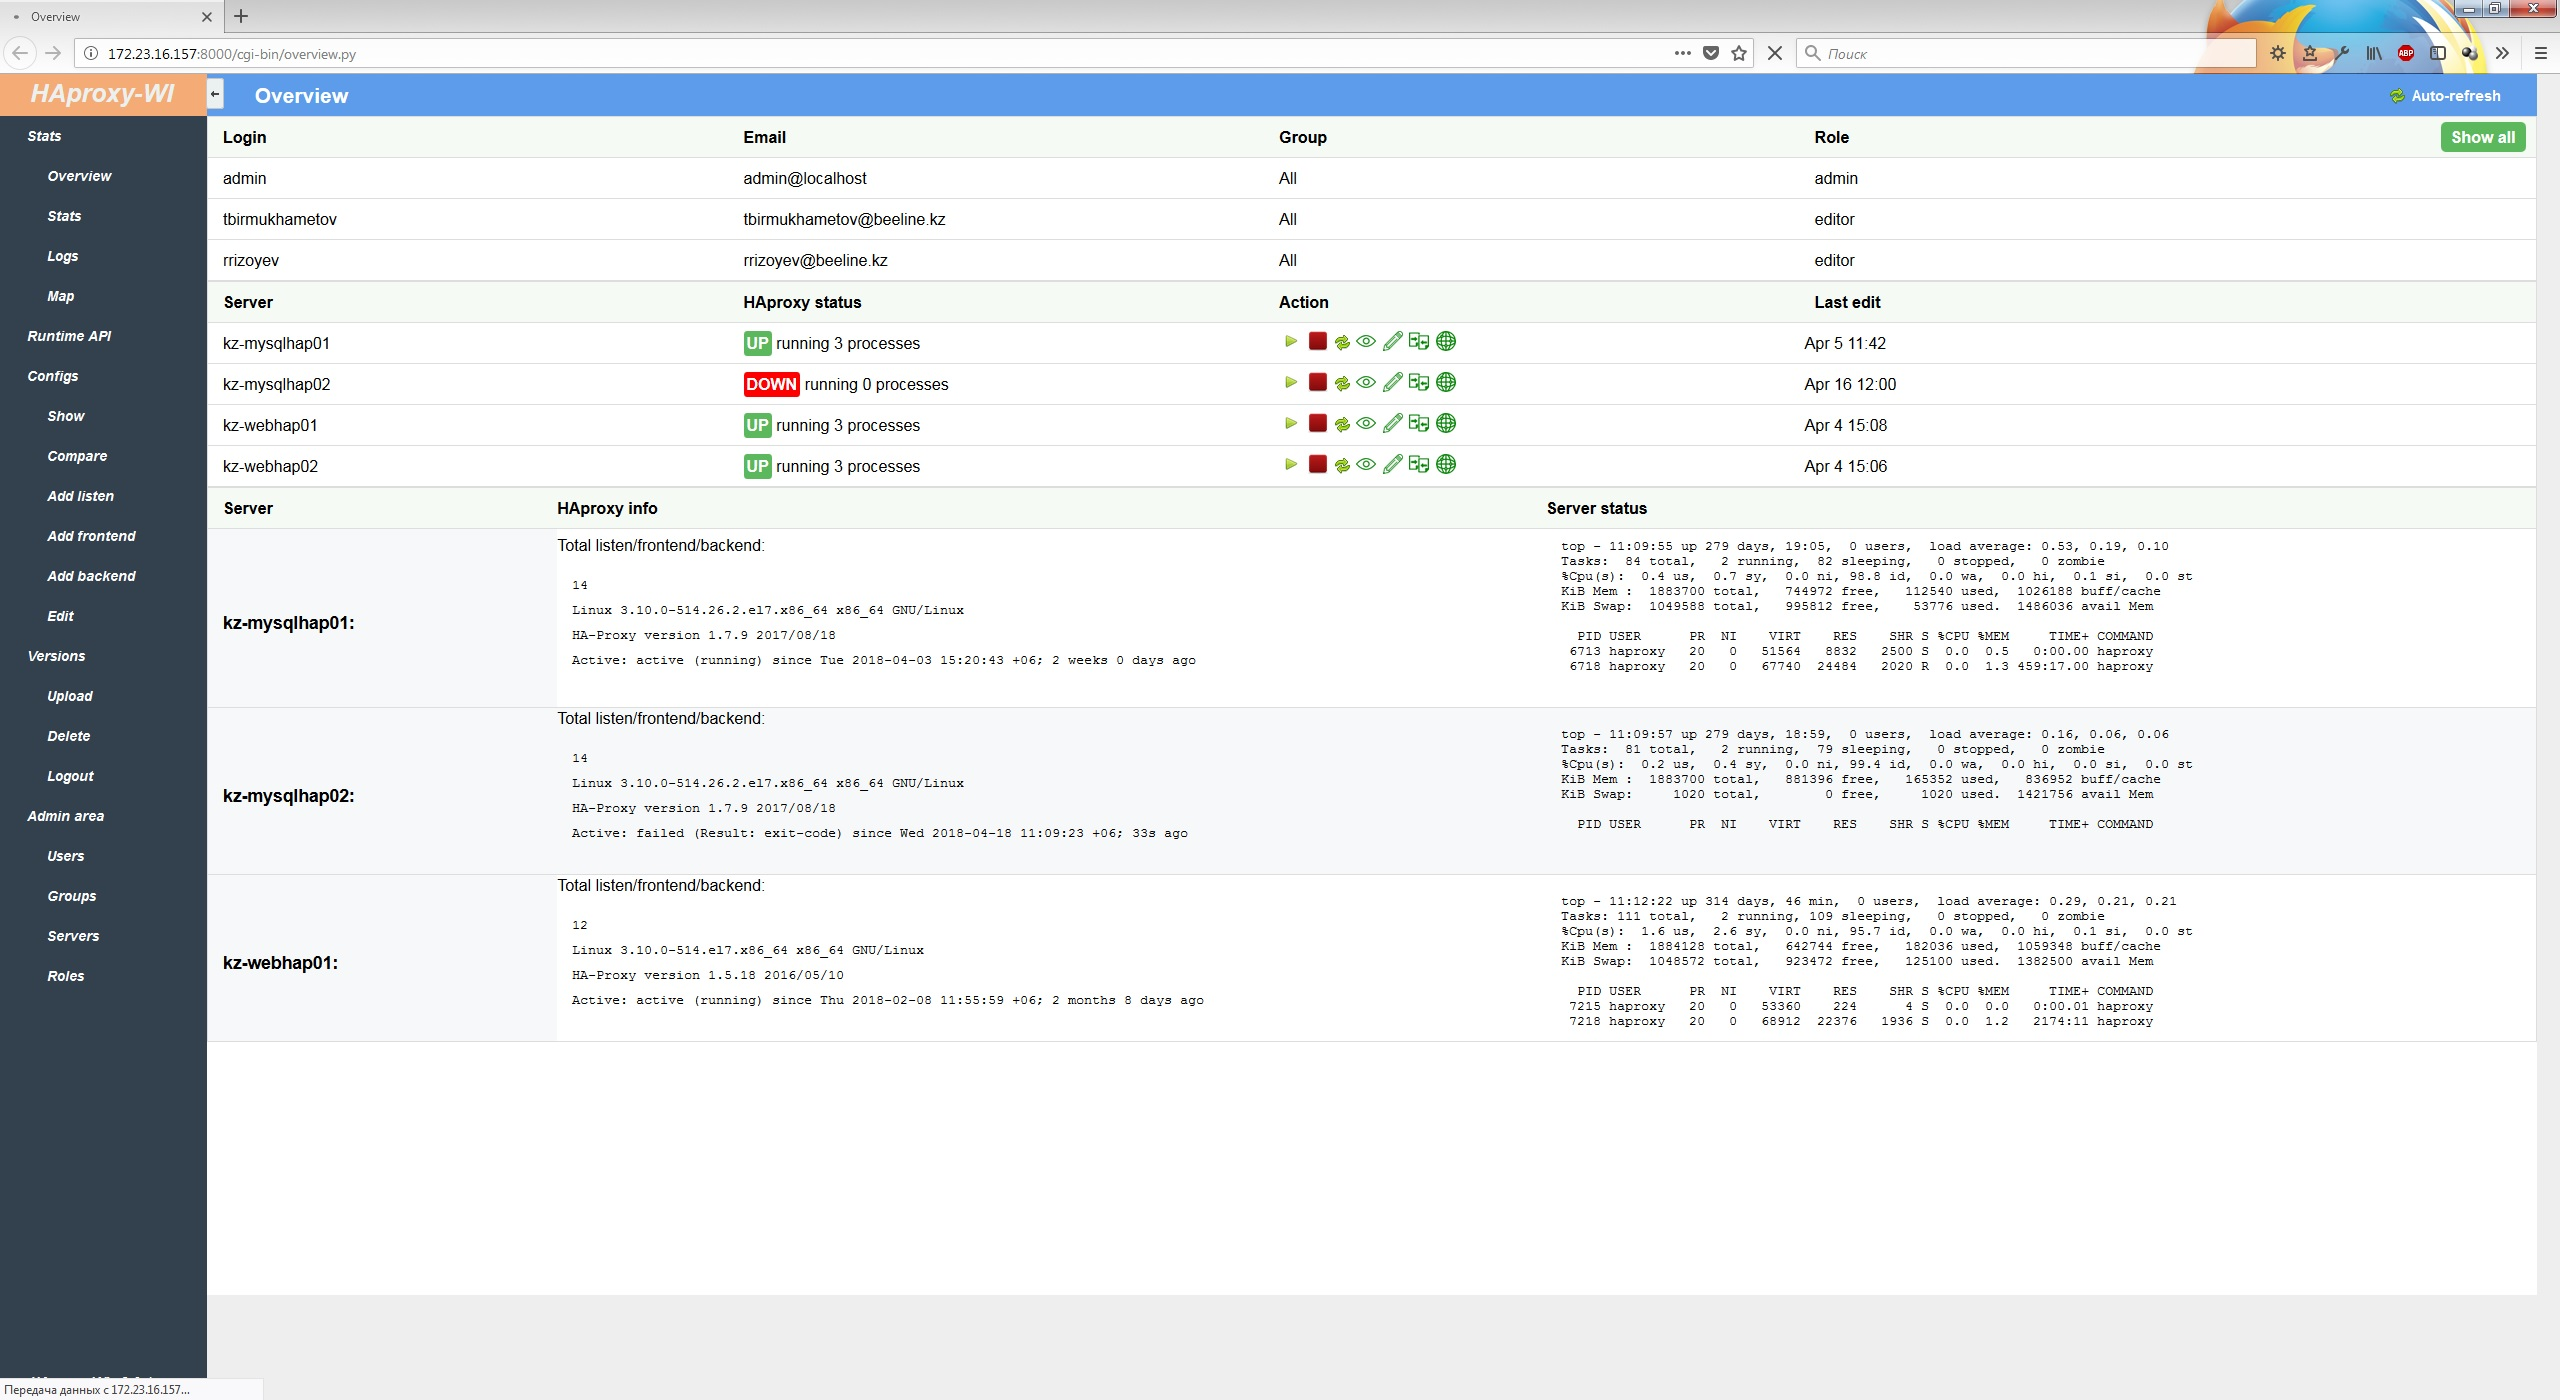
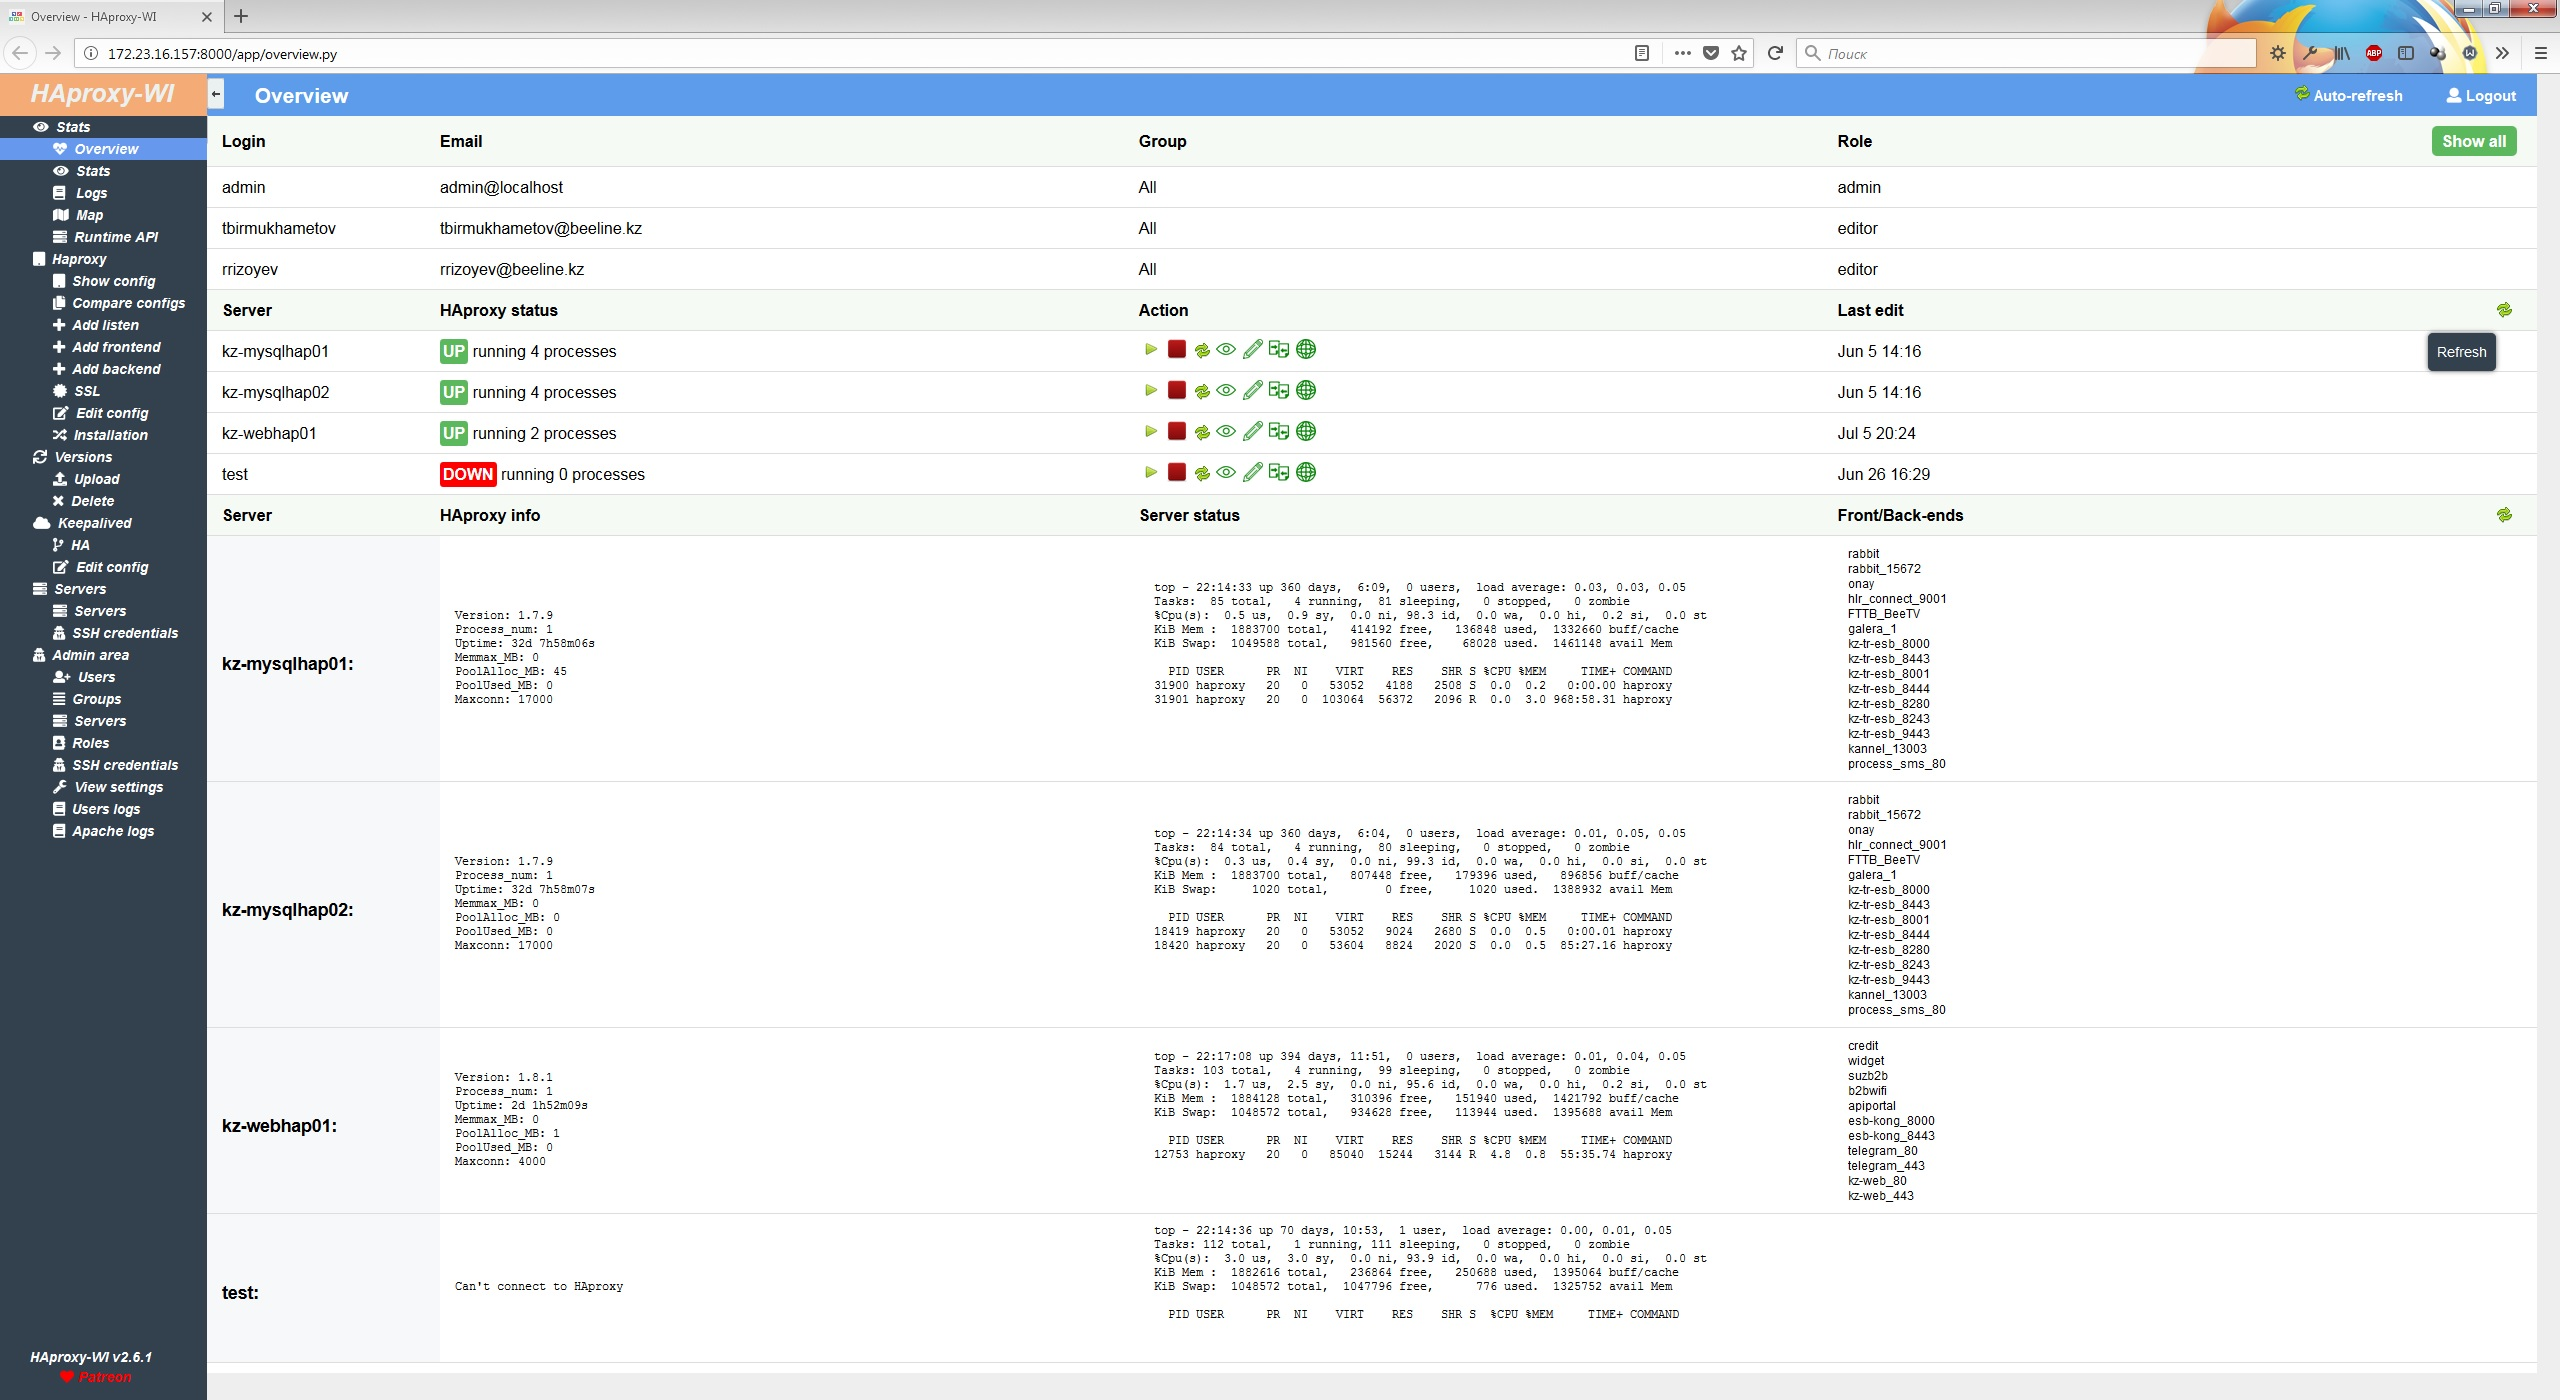
v2.6.2
Improved Overview page

diff --git a/app/templates/ovw.html b/app/templates/ovw.html
@@ -65,7 +65,9 @@
 		<td class="padding10">
 			Last edit
 		</td  class="padding10">
-		<td></td>
+		<td>
+			<a onclick="showOverview()" title="Refresh" style="float: right; margin-right: 25px;"><img  src="/image/pic/update.png" alt="restart" class="icon"></a>
+		</td>
 	</tr>
 <tbody id="ajaxstatus"></tbody>
 
@@ -85,6 +87,7 @@
 			Front/Back-ends
 		</td>
 		<td>
+			<a onclick="showOverviewServers()" title="Refresh Server Info" style="float: right; margin-right: 25px;"><img  src="/image/pic/update.png" alt="restart" class="icon"></a>
 		</td>
 	</tr>
 <tbody id="ajaxservers"></tbody>

diff --git a/app/templates/base.html b/app/templates/base.html
@@ -97,7 +97,7 @@
 					</ul>
 				</nav>
 				<div class="copyright-menu">
-					HAproxy-WI v2.6.1
+					HAproxy-WI v2.6.2
 					<br>
 					<a href="https://www.patreon.com/haproxy_wi" title="Donate" target="_blank" style="color: #fff; margin-left: 30px; color: red;" class="patreon">  Patreon</a>
 				</div>

diff --git a/app/ovw.py b/app/ovw.py
@@ -14,12 +14,12 @@ form = cgi.FieldStorage()
 def get_overview():
 	listhap = sql.get_dick_permit()
 		
-	commands = [ "ps -Af |grep [h]aproxy |wc -l" ]
-	commands1 = [ "ls -l %s |awk '{ print $6\" \"$7\" \"$8}'" % haproxy_config_path ]
+	commands = [ "ls -l %s |awk '{ print $6\" \"$7\" \"$8}'" % haproxy_config_path ]
 
 	for server in listhap:
 		print('<tr><td class="padding10 first-collumn"><a href="#%s" title="Go to %s status" style="color: #000">%s</a></td><td  class="second-collumn">' % (server[1], server[1], server[1]))
-		funct.ssh_command(server[2], commands, server_status="1")
+		cmd = 'echo "show info" |nc %s 1999 |grep -e "Process_num"' % server[2]
+		funct.server_status(funct.subprocess_execute(cmd))
 		print('</td><td>')
 		if funct.is_admin():
 			print('<a id="%s" class="start" title="Start HAproxy service"><img src=/image/pic/start.png alt="start" class="icon"></a>' % server[2])
@@ -31,22 +31,28 @@ def get_overview():
 			print('<a href="/app/diff.py?serv=%s&open=open#diff"  title="Compare config"><img src=/image/pic/compare.png alt="compare" class="icon"></a>' % server[2])
 			print('<a href="/app/map.py?serv=%s&open=open#map"  title="Map listen/frontend/backend"><img src=/image/pic/map.png alt="map" class="icon"></a>' % server[2])
 		print('</td><td>')
-		funct.ssh_command(server[2], commands1)
+		funct.ssh_command(server[2], commands)
 		print('</td><td></td></tr>')
 
 def get_overviewServers():
 	listhap = sql.get_dick_permit()
-	commands = [ "uname -smor", 
-				"haproxy -v |head -1", 
-				status_command + "|grep Active |awk -F':' '{print $2\":\"$3\":\"$4}' | sed 's/^[ \t]*//'" ]
-	commands1 =  [ "top -u haproxy -b -n 1" ]
+	commands =  [ "top -u haproxy -b -n 1" ]
+	
 	for server in sorted(listhap):
 		print('<tr><td class="overviewTr first-collumn"><a name="'+server[1]+'"></a><h3 title="IP ' + server[2] + '">' + server[1] + ':</h3></td>')
 		print('<td class="overviewTd" style="padding-top: 10px;"><pre style="font-size: 12px;">')
+		cmd = 'echo "show info" |nc %s 1999 |grep -e "Ver\|CurrConns\|SessRate\|Maxco\|MB\|Uptime:"' % server[2]
+		out = funct.subprocess_execute(cmd)
+
+		for k in out:
+			if "Ncat: Connection refused." not in k:
+				for r in k:
+					print(r)
+			else:
+				print("Can\'t connect to HAproxy")
+		print('</pre></td><td style="padding-top: 10px;"><pre style="font-size: 12px; padding-left: 0px;">')
 		funct.ssh_command(server[2], commands)
-		print('</pre></td><td style="padding-top: 10px;"><pre style="font-size: 12px;">')
-		funct.ssh_command(server[2], commands1)
-		print('</td><td style="padding: 10px;font-size: 13px;">')
+		print('</td><td style="padding: 10px;font-size: 12px;">')
 		funct.show_backends(server[2])
 		print('</pre></td><td></td></tr>')
 	

diff --git a/app/funct.py b/app/funct.py
@@ -415,17 +415,17 @@ def show_ip(stdout):
 	for line in stdout:
 		print(line)
 		
-def server_status(stdout):
+def server_status(stdout):	
 	proc_count = ""
-	i = 0
-	for line in stdout.read().decode(encoding='UTF-8'):
-		i = i + 1
-		if i == 1:
-			proc_count += line
-			if line.find("0"):
-				err = 1
-			else:
-				err = 0
+	
+	for line in stdout:
+		if "Ncat: Connection refused." not in line:
+			for k in line:
+				proc_count = k.split(":")[1]
+			err = 1
+		else:
+			err = 0
+			proc_count = 0
 			
 	if err != 0:
 		print('<span class="serverUp"> UP</span> running %s processes' % proc_count)
